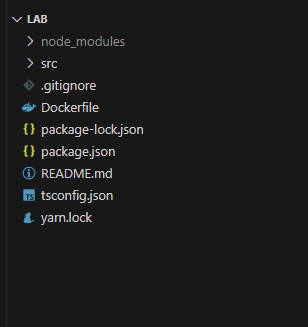
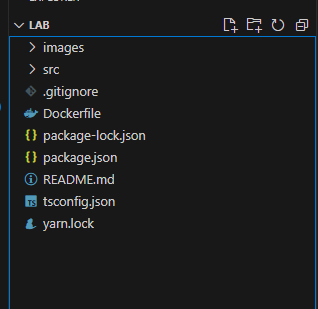
feat: documentation for api

Changed region(s): [[0.0, 0.0291, 1.0, 1.0], [0.2045, 0.0, 0.2338, 0.0291]]

diff --git a/src/routes/healthRoutes.ts b/src/routes/healthRoutes.ts
@@ -5,7 +5,7 @@ const router = express.Router();
 
 // Rota de health para saber o status do sistema
 router.get('/health', (request: Request, response: Response) => {
-    return response.status(200), response.json({ message: 'Ok!' })
+    return response.status(200), response.json({ message: 'Hello World!' })
 });
 
 module.exports = router;

diff --git a/README.md b/README.md
@@ -1,5 +1,7 @@
 # laboratório
 
+# Passo 1
+
 ## Primeiro passo será verificar se você tem as ferramentas necessárias para rodar o programa:
 
 - Fazer download do gitbash no seguinte endereço: https://git-scm.com/download/win
@@ -10,8 +12,7 @@
 
 ## Após baixar esses programas iniciais, clone este repositório em sua máquina.
 
-Para clonar o repositório basta clicar no botão code no canto superior direito e copiar o endereço https;
-Abrir o gitbash baixado anteriormente, escolher o diretório de sua preferencia (documents...) e digitar o seguinte comando:
+Para clonar o repositório basta abrir o gitbash baixado anteriormente, escolher o diretório de sua preferencia (documents...) e digitar o seguinte comando:
 'git clone https://github.com/LuizKischel/lab.git'
 Como o repositório é público não necessitará de autenticação.
 
@@ -21,3 +22,28 @@ Para isto, basta abrir o vscode ir no canto esquerdo em "file" e clicar em open 
 Você deverá ver algo como isto:
 
 ![Alt text](./images/image.png)
+
+## Fazendo API funcionar:
+
+Agora chegou a hora de validar o funcionamento da api, em seu vscode aperte as teclas **ctrl + "** para abrir o terminal (pode utilizar o powershell ou alterar para o gitbash)
+
+Terminal aberto execute o comando **yarn** para instalar as dependências. Ao finalizar deverá ter gerado uma nova pasta chamada __node_modules__
+
+Exemplo de um comando executado com sucesso:
+
+![Alt text](./images/terminal.png)
+
+*Obs: Caso dê algum erro de instalação de pacotes, verifique as versões das ferramentas instaladas.*
+
+Instalação de dependências bem sucedida, podemos rodar a aplicação.
+Para rodar a aplicação bastar escrever o comando **yarn start**
+
+Exemplo de api rodando corretamente:
+
+![Alt text](./images/api-rodando.png)
+
+Após exibir a mensagem "Express server has started on port 3333". 
+Abra o navegador e acesse o seguinte endereço: http://localhost:3333/health
+Deve aparecer a seguinte mensagem:
+
+![Alt text](./images/helloworld.png)
